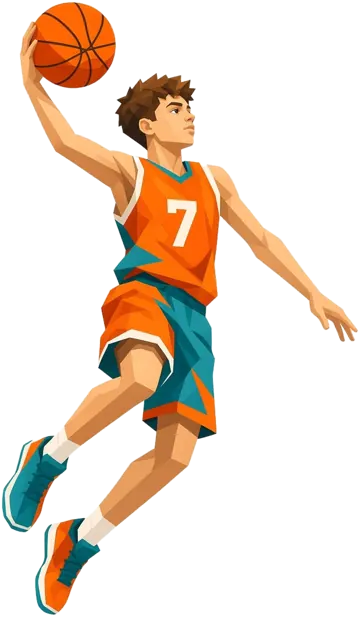
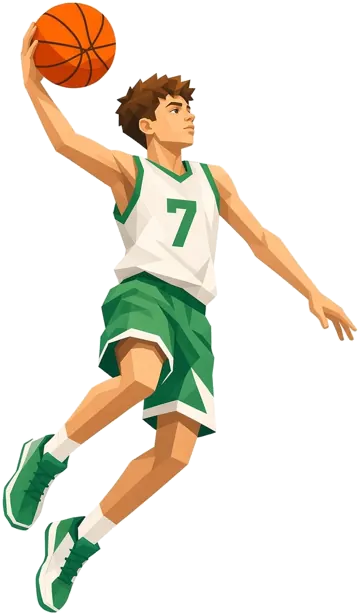
feat(hero): white-green player webp and green hero accents (v12)
Replace hero illustration with owner-provided 360×615 asset; add teal
blob and green outline behind the figure, green №7 badge, cache 2026-11-28-12.

diff --git a/app.js b/app.js
@@ -775,7 +775,7 @@ function heroSeasonHeadlineStats() {
   return `${scope}<div class="hero-stats hero-stats--headline" aria-label="Ключевые средние за сезон">${cells}</div>`;
 }
 
-const ASSET_V = "2026-11-28-11";
+const ASSET_V = "2026-11-28-12";
 const ICON_GEAR = `<svg xmlns="http://www.w3.org/2000/svg" viewBox="0 0 24 24" width="20" height="20" aria-hidden="true" fill="none" stroke="currentColor" stroke-width="2" stroke-linecap="round" stroke-linejoin="round"><circle cx="12" cy="12" r="3"></circle><path d="M19.4 15a1.65 1.65 0 0 0 .33 1.82l.06.06a2 2 0 1 1-2.83 2.83l-.06-.06a1.65 1.65 0 0 0-1.82-.33 1.65 1.65 0 0 0-1 1.51V21a2 2 0 1 1-4 0v-.09A1.65 1.65 0 0 0 9 19.4a1.65 1.65 0 0 0-1.82.33l-.06.06a2 2 0 1 1-2.83-2.83l.06-.06A1.65 1.65 0 0 0 4.68 15a1.65 1.65 0 0 0-1.51-1H3a2 2 0 1 1 0-4h.09A1.65 1.65 0 0 0 4.6 9a1.65 1.65 0 0 0-.33-1.82l-.06-.06a2 2 0 1 1 2.83-2.83l.06.06A1.65 1.65 0 0 0 9 4.68a1.65 1.65 0 0 0 1-1.51V3a2 2 0 1 1 4 0v.09a1.65 1.65 0 0 0 1 1.51 1.65 1.65 0 0 0 1.82-.33l.06-.06a2 2 0 1 1 2.83 2.83l-.06.06A1.65 1.65 0 0 0 19.4 9a1.65 1.65 0 0 0 1.51 1H21a2 2 0 1 1 0 4h-.09a1.65 1.65 0 0 0-1.51 1z"></path></svg>`;
 const ICON_REFRESH = `<svg xmlns="http://www.w3.org/2000/svg" viewBox="0 0 24 24" width="18" height="18" aria-hidden="true" fill="none" stroke="currentColor" stroke-width="2" stroke-linecap="round" stroke-linejoin="round"><path d="M21 12a9 9 0 0 0-9-9 9.75 9.75 0 0 0-6.74 2.74L3 8"></path><path d="M3 3v5h5"></path><path d="M3 12a9 9 0 0 0 9 9 9.75 9.75 0 0 0 6.74-2.74L21 16"></path><path d="M16 16h5v5"></path></svg>`;
 const ICON_PENCIL = `<svg xmlns="http://www.w3.org/2000/svg" viewBox="0 0 24 24" width="18" height="18" aria-hidden="true" fill="none" stroke="currentColor" stroke-width="2" stroke-linecap="round" stroke-linejoin="round"><path d="M12 20h9"></path><path d="M16.5 3.5a2.12 2.12 0 0 1 3 3L7 19l-4 1 1-4Z"></path></svg>`;
@@ -789,7 +789,7 @@ function heroClubBadge() {
 }
 
 function heroPlayerArt() {
-  return `<img class="hero-athlete" src="assets/hero-player.webp?v=${ASSET_V}" width="360" height="617" alt="" decoding="async">`;
+  return `<img class="hero-athlete" src="assets/hero-player.webp?v=${ASSET_V}" width="360" height="615" alt="" decoding="async">`;
 }
 
 function kpiFormatMetric(metric) {

diff --git a/styles.css b/styles.css
@@ -3442,6 +3442,11 @@ body[data-page="profile"] .player-card.player-card--light .num {
   font-size: 0.95rem;
 }
 
+body[data-page="profile"] .player-card.player-card--profile-hero .num {
+  background: #2f9e5b;
+  box-shadow: 0 6px 16px rgba(47, 158, 91, 0.28);
+}
+
 .hero-stats--headline {
   position: relative;
   z-index: 2;
@@ -3917,6 +3922,23 @@ body[data-page="mama"] .wrap::before {
   pointer-events: none;
 }
 
+.hero-art-stage::before {
+  content: "";
+  position: absolute;
+  right: -4%;
+  bottom: 12%;
+  width: clamp(7.25rem, 40vw, 11rem);
+  height: clamp(7.25rem, 40vw, 11rem);
+  border-radius: 50%;
+  background: radial-gradient(
+    circle at 42% 38%,
+    rgba(207, 227, 224, 0.96) 0%,
+    rgba(207, 227, 224, 0.62) 52%,
+    rgba(207, 227, 224, 0) 74%
+  );
+  z-index: 1;
+}
+
 .hero-art-stage .hero-display-bg--number {
   position: absolute;
   right: -0.12em;
@@ -3927,8 +3949,8 @@ body[data-page="mama"] .wrap::before {
   font-size: clamp(14.5rem, 68vw, 18.75rem);
   letter-spacing: -0.06em;
   line-height: 0.76;
-  color: rgba(20, 20, 20, 0.07);
-  -webkit-text-stroke: 1px rgba(95, 168, 160, 0.24);
+  color: rgba(47, 158, 91, 0.09);
+  -webkit-text-stroke: 1.5px rgba(47, 158, 91, 0.32);
   z-index: 0;
 }
 

diff --git a/index.html b/index.html
@@ -11,9 +11,9 @@
   <link rel="apple-touch-icon" href="apple-touch-icon-v3-180.png?v=2026-11-23-01">
   <meta name="mobile-web-app-capable" content="yes">
   <title>Костя Д. — профиль</title>
-  <link rel="preload" href="fonts/fonts.css?v=2026-11-28-11" as="style">
-  <link rel="stylesheet" href="fonts/fonts.css?v=2026-11-28-11">
-  <link rel="stylesheet" href="styles.css?v=2026-11-28-11">
+  <link rel="preload" href="fonts/fonts.css?v=2026-11-28-12" as="style">
+  <link rel="stylesheet" href="fonts/fonts.css?v=2026-11-28-12">
+  <link rel="stylesheet" href="styles.css?v=2026-11-28-12">
 </head>
 <body data-page="profile">
   <a class="skip" href="#content">К содержанию</a>
@@ -56,6 +56,6 @@
   <button type="button" class="to-top" id="to-top" hidden>Наверх</button>
   <noscript>Чтобы собрать страницу из data.json, нужен JavaScript.</noscript>
   <script src="https://cdn.onesignal.com/sdks/web/v16/OneSignalSDK.page.js" defer></script>
-  <script src="app.js?v=2026-11-28-11" defer></script>
+  <script src="app.js?v=2026-11-28-12" defer></script>
 </body>
 </html>

diff --git a/team.html b/team.html
@@ -11,9 +11,9 @@
   <link rel="apple-touch-icon" href="apple-touch-icon-v3-180.png?v=2026-11-23-01">
   <meta name="mobile-web-app-capable" content="yes">
   <title>Команда — Росток-2014</title>
-  <link rel="preload" href="fonts/fonts.css?v=2026-11-28-11" as="style">
-  <link rel="stylesheet" href="fonts/fonts.css?v=2026-11-28-11">
-  <link rel="stylesheet" href="styles.css?v=2026-11-28-11">
+  <link rel="preload" href="fonts/fonts.css?v=2026-11-28-12" as="style">
+  <link rel="stylesheet" href="fonts/fonts.css?v=2026-11-28-12">
+  <link rel="stylesheet" href="styles.css?v=2026-11-28-12">
 </head>
 <body data-page="team">
   <a class="skip" href="#content">К содержанию</a>
@@ -56,6 +56,6 @@
   <button type="button" class="to-top" id="to-top" hidden>Наверх</button>
   <noscript>Чтобы собрать страницу из data.json, нужен JavaScript.</noscript>
   <script src="https://cdn.onesignal.com/sdks/web/v16/OneSignalSDK.page.js" defer></script>
-  <script src="app.js?v=2026-11-28-11" defer></script>
+  <script src="app.js?v=2026-11-28-12" defer></script>
 </body>
 </html>

diff --git a/career.html b/career.html
@@ -11,9 +11,9 @@
   <link rel="apple-touch-icon" href="apple-touch-icon-v3-180.png?v=2026-11-23-01">
   <meta name="mobile-web-app-capable" content="yes">
   <title>Костя Д. — карьера</title>
-  <link rel="preload" href="fonts/fonts.css?v=2026-11-28-11" as="style">
-  <link rel="stylesheet" href="fonts/fonts.css?v=2026-11-28-11">
-  <link rel="stylesheet" href="styles.css?v=2026-11-28-11">
+  <link rel="preload" href="fonts/fonts.css?v=2026-11-28-12" as="style">
+  <link rel="stylesheet" href="fonts/fonts.css?v=2026-11-28-12">
+  <link rel="stylesheet" href="styles.css?v=2026-11-28-12">
 </head>
 <body data-page="career">
   <a class="skip" href="#content">К содержанию</a>
@@ -56,6 +56,6 @@
   <button type="button" class="to-top" id="to-top" hidden>Наверх</button>
   <noscript>Чтобы собрать страницу из data.json, нужен JavaScript.</noscript>
   <script src="https://cdn.onesignal.com/sdks/web/v16/OneSignalSDK.page.js" defer></script>
-  <script src="app.js?v=2026-11-28-11" defer></script>
+  <script src="app.js?v=2026-11-28-12" defer></script>
 </body>
 </html>

diff --git a/mama.html b/mama.html
@@ -11,9 +11,9 @@
   <link rel="apple-touch-icon" href="apple-touch-icon-v3-180.png?v=2026-11-23-01">
   <meta name="mobile-web-app-capable" content="yes">
   <title>Костя Д. — для мамы</title>
-  <link rel="preload" href="fonts/fonts.css?v=2026-11-28-11" as="style">
-  <link rel="stylesheet" href="fonts/fonts.css?v=2026-11-28-11">
-  <link rel="stylesheet" href="styles.css?v=2026-11-28-11">
+  <link rel="preload" href="fonts/fonts.css?v=2026-11-28-12" as="style">
+  <link rel="stylesheet" href="fonts/fonts.css?v=2026-11-28-12">
+  <link rel="stylesheet" href="styles.css?v=2026-11-28-12">
 </head>
 <body data-page="mama">
   <a class="skip" href="#content">К содержанию</a>
@@ -56,6 +56,6 @@
   <button type="button" class="to-top" id="to-top" hidden>Наверх</button>
   <noscript>Чтобы собрать страницу из data.json, нужен JavaScript.</noscript>
   <script src="https://cdn.onesignal.com/sdks/web/v16/OneSignalSDK.page.js" defer></script>
-  <script src="app.js?v=2026-11-28-11" defer></script>
+  <script src="app.js?v=2026-11-28-12" defer></script>
 </body>
 </html>

diff --git a/development.html b/development.html
@@ -11,9 +11,9 @@
   <link rel="apple-touch-icon" href="apple-touch-icon-v3-180.png?v=2026-11-23-04">
   <meta name="mobile-web-app-capable" content="yes">
   <title>Костя — твой план</title>
-  <link rel="preload" href="fonts/fonts.css?v=2026-11-28-11" as="style">
-  <link rel="stylesheet" href="fonts/fonts.css?v=2026-11-28-11">
-  <link rel="stylesheet" href="styles.css?v=2026-11-28-11">
+  <link rel="preload" href="fonts/fonts.css?v=2026-11-28-12" as="style">
+  <link rel="stylesheet" href="fonts/fonts.css?v=2026-11-28-12">
+  <link rel="stylesheet" href="styles.css?v=2026-11-28-12">
 </head>
 <body data-page="development">
   <a class="skip" href="#content">К содержанию</a>
@@ -56,6 +56,6 @@
   <button type="button" class="to-top" id="to-top" hidden>Наверх</button>
   <noscript>Чтобы открыть план, нужен JavaScript.</noscript>
   <script src="https://cdn.onesignal.com/sdks/web/v16/OneSignalSDK.page.js" defer></script>
-  <script src="app.js?v=2026-11-28-11" defer></script>
+  <script src="app.js?v=2026-11-28-12" defer></script>
 </body>
 </html>

diff --git a/sw.js b/sw.js
@@ -2,7 +2,7 @@ importScripts("https://cdn.onesignal.com/sdks/web/v16/OneSignalSDK.sw.js");
 
 "use strict";
 
-const VERSION = "2026-11-28-11";
+const VERSION = "2026-11-28-12";
 const STATIC = `kostya-static-${VERSION}`;
 const DATA = `kostya-data-${VERSION}`;
 
@@ -15,20 +15,20 @@ const PRECACHE = [
   "./development.html",
   "./data.json",
   "./news.json",
-  "./fonts/fonts.css?v=2026-11-28-11",
+  "./fonts/fonts.css?v=2026-11-28-12",
   "./fonts/xn7gYHE41ni1AdIRggOxSuXd.woff2",
   "./fonts/xn7gYHE41ni1AdIRggexSg.woff2",
   "./fonts/Yq6W-LOTXCb04q32xlpwv8ZfrxE.woff2",
   "./fonts/Yq6W-LOTXCb04q32xlpwu8Zf.woff2",
-  "./styles.css?v=2026-11-28-11",
-  "./app.js?v=2026-11-28-11",
-  "./manifest.json?v=2026-11-28-11",
+  "./styles.css?v=2026-11-28-12",
+  "./app.js?v=2026-11-28-12",
+  "./manifest.json?v=2026-11-28-12",
   "./favicon.svg",
   "./logo.svg",
   "./logo.png",
   "./logo-mark.svg",
   "./logo-mark.png",
-  "./assets/hero-player.webp?v=2026-11-28-11",
+  "./assets/hero-player.webp?v=2026-11-28-12",
   "./apple-touch-icon-v3-180.png",
   "./icon-v3-192.png",
   "./icon-v3-512.png",
